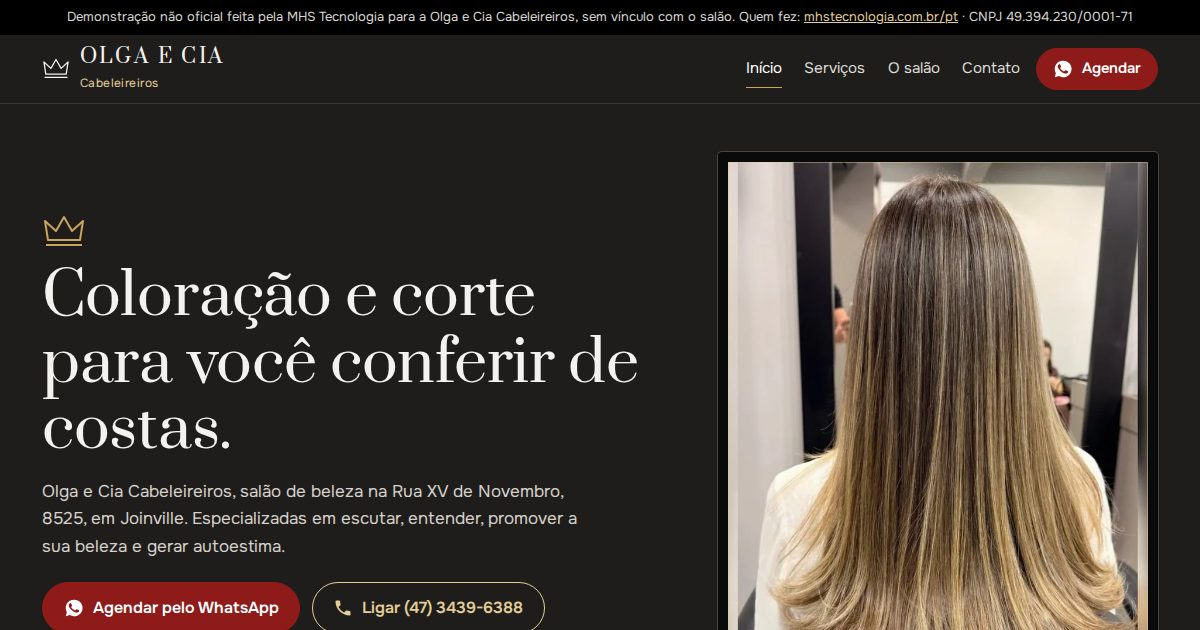
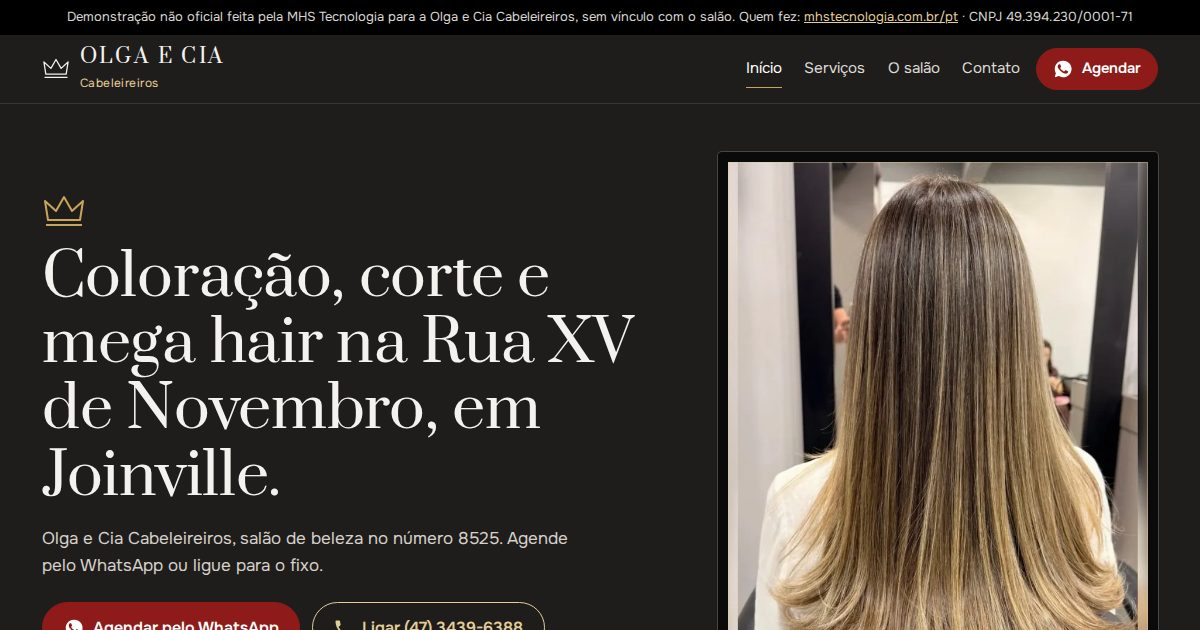
Previews: 182 ativos

Changed region(s): [[0.0308, 0.3016, 0.5242, 1.0]]

diff --git a/olga-e-cia-joinville-sc/servicos.html b/olga-e-cia-joinville-sc/servicos.html
@@ -182,19 +182,19 @@ dialog.caixa img{width:100%;max-height:82vh;object-fit:contain;background:#000}
     <nav class="nav" aria-label="Principal"><a href="index.html">Início</a><a href="servicos.html" aria-current="page">Serviços</a><a href="salao.html">O salão</a><a href="contato.html">Contato</a>
       <details class="menu"><summary>Menu</summary><div><a href="index.html">Início</a><a href="servicos.html" aria-current="page">Serviços</a><a href="salao.html">O salão</a><a href="contato.html">Contato</a><a href="https://wa.me/5547999785899?text=Ol%C3%A1%21%20Vi%20o%20site%20e%20quero%20agendar%20um%20hor%C3%A1rio.">Agendar pelo WhatsApp</a></div></details>
     </nav>
-    <a class="bt bt-topo" href="https://wa.me/5547999785899?text=Ol%C3%A1%21%20Vi%20o%20site%20e%20quero%20agendar%20um%20hor%C3%A1rio."><svg viewBox="0 0 24 24" aria-hidden="true"><path fill="currentColor" d="M12 2a10 10 0 0 0-8.6 15l-1.3 4.8 4.9-1.3A10 10 0 1 0 12 2Zm5.8 14.1c-.2.7-1.4 1.3-2 1.4-.5.1-1.2.1-1.9-.1a17 17 0 0 1-1.8-.7 13.6 13.6 0 0 1-5.2-4.6c-.4-.5-1.2-1.6-1.2-3s.7-2.2 1-2.5c.3-.3.6-.4.8-.4h.6c.2 0 .4 0 .6.5l.9 2.1c.1.2.1.4 0 .6l-.4.6-.4.5c-.1.2-.3.3-.1.6.2.3.8 1.4 1.8 2.2 1.2 1.1 2.3 1.4 2.6 1.6.3.1.5.1.7-.1l1-1.2c.2-.3.4-.2.7-.1l2 1c.3.1.5.2.6.3.1.2.1.7-.1 1.4Z"/></svg>Agendar</a>
+    <a class="bt bt-topo" href="https://wa.me/5547999785899?text=Ol%C3%A1%21%20Vi%20o%20site%20e%20quero%20agendar%20um%20hor%C3%A1rio." aria-label="Agendar pelo WhatsApp"><svg viewBox="0 0 24 24" aria-hidden="true"><path fill="currentColor" d="M12 2a10 10 0 0 0-8.6 15l-1.3 4.8 4.9-1.3A10 10 0 1 0 12 2Zm5.8 14.1c-.2.7-1.4 1.3-2 1.4-.5.1-1.2.1-1.9-.1a17 17 0 0 1-1.8-.7 13.6 13.6 0 0 1-5.2-4.6c-.4-.5-1.2-1.6-1.2-3s.7-2.2 1-2.5c.3-.3.6-.4.8-.4h.6c.2 0 .4 0 .6.5l.9 2.1c.1.2.1.4 0 .6l-.4.6-.4.5c-.1.2-.3.3-.1.6.2.3.8 1.4 1.8 2.2 1.2 1.1 2.3 1.4 2.6 1.6.3.1.5.1.7-.1l1-1.2c.2-.3.4-.2.7-.1l2 1c.3.1.5.2.6.3.1.2.1.7-.1 1.4Z"/></svg>Agendar</a>
   </div>
 </header>
 <main id="conteudo">
 <section class="cabeca" data-depois>
   <div class="envolve">
     <h1>Serviços</h1>
-    <p>Os nove serviços que a Olga e Cia lista no Instagram. Valores e horários, o salão passa pelo WhatsApp.</p>
+    <p>Os nove serviços da Olga e Cia. Valores e horários, o salão passa pelo WhatsApp.</p>
   </div>
 </section>
 <section class="secao" style="padding-top:1rem">
   <div class="envolve">
-    <article class="servico"><div><h2>Mega hair</h2></div><a class="bt" href="https://wa.me/5547999785899?text=Ol%C3%A1%21%20Vi%20o%20site%20e%20quero%20saber%20sobre%20mega%20hair."><svg viewBox="0 0 24 24" aria-hidden="true"><path fill="currentColor" d="M12 2a10 10 0 0 0-8.6 15l-1.3 4.8 4.9-1.3A10 10 0 1 0 12 2Zm5.8 14.1c-.2.7-1.4 1.3-2 1.4-.5.1-1.2.1-1.9-.1a17 17 0 0 1-1.8-.7 13.6 13.6 0 0 1-5.2-4.6c-.4-.5-1.2-1.6-1.2-3s.7-2.2 1-2.5c.3-.3.6-.4.8-.4h.6c.2 0 .4 0 .6.5l.9 2.1c.1.2.1.4 0 .6l-.4.6-.4.5c-.1.2-.3.3-.1.6.2.3.8 1.4 1.8 2.2 1.2 1.1 2.3 1.4 2.6 1.6.3.1.5.1.7-.1l1-1.2c.2-.3.4-.2.7-.1l2 1c.3.1.5.2.6.3.1.2.1.7-.1 1.4Z"/></svg>Perguntar sobre mega hair</a></article><article class="servico-foto"><div><h2>Coloração</h2><a class="bt" href="https://wa.me/5547999785899?text=Ol%C3%A1%21%20Vi%20o%20site%20e%20quero%20saber%20sobre%20colora%C3%A7%C3%A3o."><svg viewBox="0 0 24 24" aria-hidden="true"><path fill="currentColor" d="M12 2a10 10 0 0 0-8.6 15l-1.3 4.8 4.9-1.3A10 10 0 1 0 12 2Zm5.8 14.1c-.2.7-1.4 1.3-2 1.4-.5.1-1.2.1-1.9-.1a17 17 0 0 1-1.8-.7 13.6 13.6 0 0 1-5.2-4.6c-.4-.5-1.2-1.6-1.2-3s.7-2.2 1-2.5c.3-.3.6-.4.8-.4h.6c.2 0 .4 0 .6.5l.9 2.1c.1.2.1.4 0 .6l-.4.6-.4.5c-.1.2-.3.3-.1.6.2.3.8 1.4 1.8 2.2 1.2 1.1 2.3 1.4 2.6 1.6.3.1.5.1.7-.1l1-1.2c.2-.3.4-.2.7-.1l2 1c.3.1.5.2.6.3.1.2.1.7-.1 1.4Z"/></svg>Perguntar sobre coloração</a></div><div class="fotos"><img src="img/ondas-10-800.webp" srcset="img/ondas-10-480.webp 480w, img/ondas-10-800.webp 800w" sizes="(max-width: 759px) 46vw, 280px" width="800" height="905" alt="Cabelo comprido com mechas loiras e ondas, visto de costas" loading="lazy" decoding="async"><img src="img/loiro-04-800.webp" srcset="img/loiro-04-480.webp 480w, img/loiro-04-800.webp 800w, img/loiro-04-1200.webp 1200w" sizes="(max-width: 759px) 46vw, 280px" width="800" height="905" alt="Cabelo loiro na altura dos ombros, com pontas onduladas, visto de costas" loading="lazy" decoding="async"></div></article><article class="servico-foto"><div><h2>Corte</h2><a class="bt" href="https://wa.me/5547999785899?text=Ol%C3%A1%21%20Vi%20o%20site%20e%20quero%20saber%20sobre%20corte."><svg viewBox="0 0 24 24" aria-hidden="true"><path fill="currentColor" d="M12 2a10 10 0 0 0-8.6 15l-1.3 4.8 4.9-1.3A10 10 0 1 0 12 2Zm5.8 14.1c-.2.7-1.4 1.3-2 1.4-.5.1-1.2.1-1.9-.1a17 17 0 0 1-1.8-.7 13.6 13.6 0 0 1-5.2-4.6c-.4-.5-1.2-1.6-1.2-3s.7-2.2 1-2.5c.3-.3.6-.4.8-.4h.6c.2 0 .4 0 .6.5l.9 2.1c.1.2.1.4 0 .6l-.4.6-.4.5c-.1.2-.3.3-.1.6.2.3.8 1.4 1.8 2.2 1.2 1.1 2.3 1.4 2.6 1.6.3.1.5.1.7-.1l1-1.2c.2-.3.4-.2.7-.1l2 1c.3.1.5.2.6.3.1.2.1.7-.1 1.4Z"/></svg>Perguntar sobre corte</a></div><div class="fotos"><img src="img/chanel-06-800.webp" srcset="img/chanel-06-480.webp 480w, img/chanel-06-800.webp 800w, img/chanel-06-1200.webp 1200w" sizes="(max-width: 759px) 46vw, 280px" width="800" height="905" alt="Corte chanel castanho com reflexos, visto de costas" loading="lazy" decoding="async"><img src="img/curto-03-800.webp" srcset="img/curto-03-480.webp 480w, img/curto-03-800.webp 800w" sizes="(max-width: 759px) 46vw, 280px" width="800" height="905" alt="Corte curto e escuro, visto de lado" loading="lazy" decoding="async"></div></article><article class="servico-foto"><div><h2>Cílios</h2><a class="bt" href="https://wa.me/5547999785899?text=Ol%C3%A1%21%20Vi%20o%20site%20e%20quero%20saber%20sobre%20c%C3%ADlios."><svg viewBox="0 0 24 24" aria-hidden="true"><path fill="currentColor" d="M12 2a10 10 0 0 0-8.6 15l-1.3 4.8 4.9-1.3A10 10 0 1 0 12 2Zm5.8 14.1c-.2.7-1.4 1.3-2 1.4-.5.1-1.2.1-1.9-.1a17 17 0 0 1-1.8-.7 13.6 13.6 0 0 1-5.2-4.6c-.4-.5-1.2-1.6-1.2-3s.7-2.2 1-2.5c.3-.3.6-.4.8-.4h.6c.2 0 .4 0 .6.5l.9 2.1c.1.2.1.4 0 .6l-.4.6-.4.5c-.1.2-.3.3-.1.6.2.3.8 1.4 1.8 2.2 1.2 1.1 2.3 1.4 2.6 1.6.3.1.5.1.7-.1l1-1.2c.2-.3.4-.2.7-.1l2 1c.3.1.5.2.6.3.1.2.1.7-.1 1.4Z"/></svg>Perguntar sobre cílios</a></div><div class="fotos uma"><img src="img/cilios-16-800.webp" srcset="img/cilios-16-480.webp 480w, img/cilios-16-800.webp 800w, img/cilios-16-1200.webp 1200w" sizes="(max-width: 759px) 46vw, 280px" width="800" height="905" alt="Olho com extensão de cílios, bem de perto" loading="lazy" decoding="async"></div></article><article class="servico"><div><h2>Bronze a jato</h2></div><a class="bt" href="https://wa.me/5547999785899?text=Ol%C3%A1%21%20Vi%20o%20site%20e%20quero%20saber%20sobre%20bronze%20a%20jato."><svg viewBox="0 0 24 24" aria-hidden="true"><path fill="currentColor" d="M12 2a10 10 0 0 0-8.6 15l-1.3 4.8 4.9-1.3A10 10 0 1 0 12 2Zm5.8 14.1c-.2.7-1.4 1.3-2 1.4-.5.1-1.2.1-1.9-.1a17 17 0 0 1-1.8-.7 13.6 13.6 0 0 1-5.2-4.6c-.4-.5-1.2-1.6-1.2-3s.7-2.2 1-2.5c.3-.3.6-.4.8-.4h.6c.2 0 .4 0 .6.5l.9 2.1c.1.2.1.4 0 .6l-.4.6-.4.5c-.1.2-.3.3-.1.6.2.3.8 1.4 1.8 2.2 1.2 1.1 2.3 1.4 2.6 1.6.3.1.5.1.7-.1l1-1.2c.2-.3.4-.2.7-.1l2 1c.3.1.5.2.6.3.1.2.1.7-.1 1.4Z"/></svg>Perguntar sobre bronze a jato</a></article><article class="servico"><div><h2>Microblading</h2></div><a class="bt" href="https://wa.me/5547999785899?text=Ol%C3%A1%21%20Vi%20o%20site%20e%20quero%20saber%20sobre%20microblading."><svg viewBox="0 0 24 24" aria-hidden="true"><path fill="currentColor" d="M12 2a10 10 0 0 0-8.6 15l-1.3 4.8 4.9-1.3A10 10 0 1 0 12 2Zm5.8 14.1c-.2.7-1.4 1.3-2 1.4-.5.1-1.2.1-1.9-.1a17 17 0 0 1-1.8-.7 13.6 13.6 0 0 1-5.2-4.6c-.4-.5-1.2-1.6-1.2-3s.7-2.2 1-2.5c.3-.3.6-.4.8-.4h.6c.2 0 .4 0 .6.5l.9 2.1c.1.2.1.4 0 .6l-.4.6-.4.5c-.1.2-.3.3-.1.6.2.3.8 1.4 1.8 2.2 1.2 1.1 2.3 1.4 2.6 1.6.3.1.5.1.7-.1l1-1.2c.2-.3.4-.2.7-.1l2 1c.3.1.5.2.6.3.1.2.1.7-.1 1.4Z"/></svg>Perguntar sobre microblading</a></article><article class="servico-foto"><div><h2>Makes</h2><a class="bt" href="https://wa.me/5547999785899?text=Ol%C3%A1%21%20Vi%20o%20site%20e%20quero%20saber%20sobre%20maquiagem."><svg viewBox="0 0 24 24" aria-hidden="true"><path fill="currentColor" d="M12 2a10 10 0 0 0-8.6 15l-1.3 4.8 4.9-1.3A10 10 0 1 0 12 2Zm5.8 14.1c-.2.7-1.4 1.3-2 1.4-.5.1-1.2.1-1.9-.1a17 17 0 0 1-1.8-.7 13.6 13.6 0 0 1-5.2-4.6c-.4-.5-1.2-1.6-1.2-3s.7-2.2 1-2.5c.3-.3.6-.4.8-.4h.6c.2 0 .4 0 .6.5l.9 2.1c.1.2.1.4 0 .6l-.4.6-.4.5c-.1.2-.3.3-.1.6.2.3.8 1.4 1.8 2.2 1.2 1.1 2.3 1.4 2.6 1.6.3.1.5.1.7-.1l1-1.2c.2-.3.4-.2.7-.1l2 1c.3.1.5.2.6.3.1.2.1.7-.1 1.4Z"/></svg>Perguntar sobre makes</a></div><div class="fotos uma"><img src="img/make-08-800.webp" srcset="img/make-08-480.webp 480w, img/make-08-800.webp 800w" sizes="(max-width: 759px) 46vw, 280px" width="800" height="905" alt="Cliente com maquiagem pronta, sorrindo" loading="lazy" decoding="async"></div></article><article class="servico"><div><h2>Penteados</h2></div><a class="bt" href="https://wa.me/5547999785899?text=Ol%C3%A1%21%20Vi%20o%20site%20e%20quero%20saber%20sobre%20penteados."><svg viewBox="0 0 24 24" aria-hidden="true"><path fill="currentColor" d="M12 2a10 10 0 0 0-8.6 15l-1.3 4.8 4.9-1.3A10 10 0 1 0 12 2Zm5.8 14.1c-.2.7-1.4 1.3-2 1.4-.5.1-1.2.1-1.9-.1a17 17 0 0 1-1.8-.7 13.6 13.6 0 0 1-5.2-4.6c-.4-.5-1.2-1.6-1.2-3s.7-2.2 1-2.5c.3-.3.6-.4.8-.4h.6c.2 0 .4 0 .6.5l.9 2.1c.1.2.1.4 0 .6l-.4.6-.4.5c-.1.2-.3.3-.1.6.2.3.8 1.4 1.8 2.2 1.2 1.1 2.3 1.4 2.6 1.6.3.1.5.1.7-.1l1-1.2c.2-.3.4-.2.7-.1l2 1c.3.1.5.2.6.3.1.2.1.7-.1 1.4Z"/></svg>Perguntar sobre penteados</a></article><article class="servico"><div><h2>Progressivas</h2></div><a class="bt" href="https://wa.me/5547999785899?text=Ol%C3%A1%21%20Vi%20o%20site%20e%20quero%20saber%20sobre%20progressivas."><svg viewBox="0 0 24 24" aria-hidden="true"><path fill="currentColor" d="M12 2a10 10 0 0 0-8.6 15l-1.3 4.8 4.9-1.3A10 10 0 1 0 12 2Zm5.8 14.1c-.2.7-1.4 1.3-2 1.4-.5.1-1.2.1-1.9-.1a17 17 0 0 1-1.8-.7 13.6 13.6 0 0 1-5.2-4.6c-.4-.5-1.2-1.6-1.2-3s.7-2.2 1-2.5c.3-.3.6-.4.8-.4h.6c.2 0 .4 0 .6.5l.9 2.1c.1.2.1.4 0 .6l-.4.6-.4.5c-.1.2-.3.3-.1.6.2.3.8 1.4 1.8 2.2 1.2 1.1 2.3 1.4 2.6 1.6.3.1.5.1.7-.1l1-1.2c.2-.3.4-.2.7-.1l2 1c.3.1.5.2.6.3.1.2.1.7-.1 1.4Z"/></svg>Perguntar sobre progressivas</a></article>
+    <article class="servico"><div><h2>Mega hair</h2></div><a class="bt" href="https://wa.me/5547999785899?text=Ol%C3%A1%21%20Vi%20o%20site%20e%20quero%20saber%20sobre%20mega%20hair."><svg viewBox="0 0 24 24" aria-hidden="true"><path fill="currentColor" d="M12 2a10 10 0 0 0-8.6 15l-1.3 4.8 4.9-1.3A10 10 0 1 0 12 2Zm5.8 14.1c-.2.7-1.4 1.3-2 1.4-.5.1-1.2.1-1.9-.1a17 17 0 0 1-1.8-.7 13.6 13.6 0 0 1-5.2-4.6c-.4-.5-1.2-1.6-1.2-3s.7-2.2 1-2.5c.3-.3.6-.4.8-.4h.6c.2 0 .4 0 .6.5l.9 2.1c.1.2.1.4 0 .6l-.4.6-.4.5c-.1.2-.3.3-.1.6.2.3.8 1.4 1.8 2.2 1.2 1.1 2.3 1.4 2.6 1.6.3.1.5.1.7-.1l1-1.2c.2-.3.4-.2.7-.1l2 1c.3.1.5.2.6.3.1.2.1.7-.1 1.4Z"/></svg>Perguntar sobre mega hair</a></article><article class="servico-foto"><div><h2>Coloração</h2><a class="bt" href="https://wa.me/5547999785899?text=Ol%C3%A1%21%20Vi%20o%20site%20e%20quero%20saber%20sobre%20colora%C3%A7%C3%A3o."><svg viewBox="0 0 24 24" aria-hidden="true"><path fill="currentColor" d="M12 2a10 10 0 0 0-8.6 15l-1.3 4.8 4.9-1.3A10 10 0 1 0 12 2Zm5.8 14.1c-.2.7-1.4 1.3-2 1.4-.5.1-1.2.1-1.9-.1a17 17 0 0 1-1.8-.7 13.6 13.6 0 0 1-5.2-4.6c-.4-.5-1.2-1.6-1.2-3s.7-2.2 1-2.5c.3-.3.6-.4.8-.4h.6c.2 0 .4 0 .6.5l.9 2.1c.1.2.1.4 0 .6l-.4.6-.4.5c-.1.2-.3.3-.1.6.2.3.8 1.4 1.8 2.2 1.2 1.1 2.3 1.4 2.6 1.6.3.1.5.1.7-.1l1-1.2c.2-.3.4-.2.7-.1l2 1c.3.1.5.2.6.3.1.2.1.7-.1 1.4Z"/></svg>Perguntar sobre coloração</a></div><div class="fotos uma"><img src="img/mechas-05-800.webp" srcset="img/mechas-05-480.webp 480w, img/mechas-05-800.webp 800w, img/mechas-05-1200.webp 1200w" sizes="(max-width: 759px) 46vw, 280px" width="800" height="905" alt="Cabelo castanho com mechas claras, liso, na altura dos ombros, visto de costas" loading="lazy" decoding="async"></div></article><article class="servico-foto"><div><h2>Corte</h2><a class="bt" href="https://wa.me/5547999785899?text=Ol%C3%A1%21%20Vi%20o%20site%20e%20quero%20saber%20sobre%20corte."><svg viewBox="0 0 24 24" aria-hidden="true"><path fill="currentColor" d="M12 2a10 10 0 0 0-8.6 15l-1.3 4.8 4.9-1.3A10 10 0 1 0 12 2Zm5.8 14.1c-.2.7-1.4 1.3-2 1.4-.5.1-1.2.1-1.9-.1a17 17 0 0 1-1.8-.7 13.6 13.6 0 0 1-5.2-4.6c-.4-.5-1.2-1.6-1.2-3s.7-2.2 1-2.5c.3-.3.6-.4.8-.4h.6c.2 0 .4 0 .6.5l.9 2.1c.1.2.1.4 0 .6l-.4.6-.4.5c-.1.2-.3.3-.1.6.2.3.8 1.4 1.8 2.2 1.2 1.1 2.3 1.4 2.6 1.6.3.1.5.1.7-.1l1-1.2c.2-.3.4-.2.7-.1l2 1c.3.1.5.2.6.3.1.2.1.7-.1 1.4Z"/></svg>Perguntar sobre corte</a></div><div class="fotos uma"><img src="img/chanel-06-800.webp" srcset="img/chanel-06-480.webp 480w, img/chanel-06-800.webp 800w, img/chanel-06-1200.webp 1200w" sizes="(max-width: 759px) 46vw, 280px" width="800" height="905" alt="Corte chanel castanho com reflexos, visto de costas" loading="lazy" decoding="async"></div></article><article class="servico-foto"><div><h2>Cílios</h2><a class="bt" href="https://wa.me/5547999785899?text=Ol%C3%A1%21%20Vi%20o%20site%20e%20quero%20saber%20sobre%20c%C3%ADlios."><svg viewBox="0 0 24 24" aria-hidden="true"><path fill="currentColor" d="M12 2a10 10 0 0 0-8.6 15l-1.3 4.8 4.9-1.3A10 10 0 1 0 12 2Zm5.8 14.1c-.2.7-1.4 1.3-2 1.4-.5.1-1.2.1-1.9-.1a17 17 0 0 1-1.8-.7 13.6 13.6 0 0 1-5.2-4.6c-.4-.5-1.2-1.6-1.2-3s.7-2.2 1-2.5c.3-.3.6-.4.8-.4h.6c.2 0 .4 0 .6.5l.9 2.1c.1.2.1.4 0 .6l-.4.6-.4.5c-.1.2-.3.3-.1.6.2.3.8 1.4 1.8 2.2 1.2 1.1 2.3 1.4 2.6 1.6.3.1.5.1.7-.1l1-1.2c.2-.3.4-.2.7-.1l2 1c.3.1.5.2.6.3.1.2.1.7-.1 1.4Z"/></svg>Perguntar sobre cílios</a></div><div class="fotos uma"><img src="img/cilios-16-800.webp" srcset="img/cilios-16-480.webp 480w, img/cilios-16-800.webp 800w, img/cilios-16-1200.webp 1200w" sizes="(max-width: 759px) 46vw, 280px" width="800" height="905" alt="Olho com extensão de cílios, bem de perto" loading="lazy" decoding="async"></div></article><article class="servico"><div><h2>Bronze a jato</h2></div><a class="bt" href="https://wa.me/5547999785899?text=Ol%C3%A1%21%20Vi%20o%20site%20e%20quero%20saber%20sobre%20bronze%20a%20jato."><svg viewBox="0 0 24 24" aria-hidden="true"><path fill="currentColor" d="M12 2a10 10 0 0 0-8.6 15l-1.3 4.8 4.9-1.3A10 10 0 1 0 12 2Zm5.8 14.1c-.2.7-1.4 1.3-2 1.4-.5.1-1.2.1-1.9-.1a17 17 0 0 1-1.8-.7 13.6 13.6 0 0 1-5.2-4.6c-.4-.5-1.2-1.6-1.2-3s.7-2.2 1-2.5c.3-.3.6-.4.8-.4h.6c.2 0 .4 0 .6.5l.9 2.1c.1.2.1.4 0 .6l-.4.6-.4.5c-.1.2-.3.3-.1.6.2.3.8 1.4 1.8 2.2 1.2 1.1 2.3 1.4 2.6 1.6.3.1.5.1.7-.1l1-1.2c.2-.3.4-.2.7-.1l2 1c.3.1.5.2.6.3.1.2.1.7-.1 1.4Z"/></svg>Perguntar sobre bronze a jato</a></article><article class="servico"><div><h2>Microblading</h2></div><a class="bt" href="https://wa.me/5547999785899?text=Ol%C3%A1%21%20Vi%20o%20site%20e%20quero%20saber%20sobre%20microblading."><svg viewBox="0 0 24 24" aria-hidden="true"><path fill="currentColor" d="M12 2a10 10 0 0 0-8.6 15l-1.3 4.8 4.9-1.3A10 10 0 1 0 12 2Zm5.8 14.1c-.2.7-1.4 1.3-2 1.4-.5.1-1.2.1-1.9-.1a17 17 0 0 1-1.8-.7 13.6 13.6 0 0 1-5.2-4.6c-.4-.5-1.2-1.6-1.2-3s.7-2.2 1-2.5c.3-.3.6-.4.8-.4h.6c.2 0 .4 0 .6.5l.9 2.1c.1.2.1.4 0 .6l-.4.6-.4.5c-.1.2-.3.3-.1.6.2.3.8 1.4 1.8 2.2 1.2 1.1 2.3 1.4 2.6 1.6.3.1.5.1.7-.1l1-1.2c.2-.3.4-.2.7-.1l2 1c.3.1.5.2.6.3.1.2.1.7-.1 1.4Z"/></svg>Perguntar sobre microblading</a></article><article class="servico-foto"><div><h2>Makes</h2><a class="bt" href="https://wa.me/5547999785899?text=Ol%C3%A1%21%20Vi%20o%20site%20e%20quero%20saber%20sobre%20maquiagem."><svg viewBox="0 0 24 24" aria-hidden="true"><path fill="currentColor" d="M12 2a10 10 0 0 0-8.6 15l-1.3 4.8 4.9-1.3A10 10 0 1 0 12 2Zm5.8 14.1c-.2.7-1.4 1.3-2 1.4-.5.1-1.2.1-1.9-.1a17 17 0 0 1-1.8-.7 13.6 13.6 0 0 1-5.2-4.6c-.4-.5-1.2-1.6-1.2-3s.7-2.2 1-2.5c.3-.3.6-.4.8-.4h.6c.2 0 .4 0 .6.5l.9 2.1c.1.2.1.4 0 .6l-.4.6-.4.5c-.1.2-.3.3-.1.6.2.3.8 1.4 1.8 2.2 1.2 1.1 2.3 1.4 2.6 1.6.3.1.5.1.7-.1l1-1.2c.2-.3.4-.2.7-.1l2 1c.3.1.5.2.6.3.1.2.1.7-.1 1.4Z"/></svg>Perguntar sobre makes</a></div><div class="fotos uma"><img src="img/make-08-800.webp" srcset="img/make-08-480.webp 480w, img/make-08-800.webp 800w" sizes="(max-width: 759px) 46vw, 280px" width="800" height="905" alt="Cliente com maquiagem pronta, sorrindo" loading="lazy" decoding="async"></div></article><article class="servico"><div><h2>Penteados</h2></div><a class="bt" href="https://wa.me/5547999785899?text=Ol%C3%A1%21%20Vi%20o%20site%20e%20quero%20saber%20sobre%20penteados."><svg viewBox="0 0 24 24" aria-hidden="true"><path fill="currentColor" d="M12 2a10 10 0 0 0-8.6 15l-1.3 4.8 4.9-1.3A10 10 0 1 0 12 2Zm5.8 14.1c-.2.7-1.4 1.3-2 1.4-.5.1-1.2.1-1.9-.1a17 17 0 0 1-1.8-.7 13.6 13.6 0 0 1-5.2-4.6c-.4-.5-1.2-1.6-1.2-3s.7-2.2 1-2.5c.3-.3.6-.4.8-.4h.6c.2 0 .4 0 .6.5l.9 2.1c.1.2.1.4 0 .6l-.4.6-.4.5c-.1.2-.3.3-.1.6.2.3.8 1.4 1.8 2.2 1.2 1.1 2.3 1.4 2.6 1.6.3.1.5.1.7-.1l1-1.2c.2-.3.4-.2.7-.1l2 1c.3.1.5.2.6.3.1.2.1.7-.1 1.4Z"/></svg>Perguntar sobre penteados</a></article><article class="servico"><div><h2>Progressivas</h2></div><a class="bt" href="https://wa.me/5547999785899?text=Ol%C3%A1%21%20Vi%20o%20site%20e%20quero%20saber%20sobre%20progressivas."><svg viewBox="0 0 24 24" aria-hidden="true"><path fill="currentColor" d="M12 2a10 10 0 0 0-8.6 15l-1.3 4.8 4.9-1.3A10 10 0 1 0 12 2Zm5.8 14.1c-.2.7-1.4 1.3-2 1.4-.5.1-1.2.1-1.9-.1a17 17 0 0 1-1.8-.7 13.6 13.6 0 0 1-5.2-4.6c-.4-.5-1.2-1.6-1.2-3s.7-2.2 1-2.5c.3-.3.6-.4.8-.4h.6c.2 0 .4 0 .6.5l.9 2.1c.1.2.1.4 0 .6l-.4.6-.4.5c-.1.2-.3.3-.1.6.2.3.8 1.4 1.8 2.2 1.2 1.1 2.3 1.4 2.6 1.6.3.1.5.1.7-.1l1-1.2c.2-.3.4-.2.7-.1l2 1c.3.1.5.2.6.3.1.2.1.7-.1 1.4Z"/></svg>Perguntar sobre progressivas</a></article>
   </div>
 </section>
 </main>
@@ -203,7 +203,7 @@ dialog.caixa img{width:100%;max-height:82vh;object-fit:contain;background:#000}
     <div><b>OLGA E CIA</b><p>Cabeleireiros</p><p>Rua XV de Novembro, 8525<br>Joinville/SC</p></div>
     <div><p>WhatsApp: <a href="https://wa.me/5547999785899?text=Ol%C3%A1%21%20Vi%20o%20site%20e%20quero%20agendar%20um%20hor%C3%A1rio.">(47) 99978-5899</a></p><p>Telefone fixo: <a href="tel:+554734396388">(47) 3439-6388</a></p><p>Instagram: @olgaecia</p></div>
     <div><p><a href="index.html">Início</a><br><a href="servicos.html">Serviços</a><br><a href="salao.html">O salão</a><br><a href="contato.html">Contato</a><br></p></div>
-    <div class="legal"><p>Demonstração não oficial feita pela MHS Tecnologia para a Olga e Cia Cabeleireiros. Sem vínculo com o salão. Fotos e textos do Instagram do salão.</p><p>Removido a pedido: <a href="mailto:contato@mhstecnologia.com.br">contato@mhstecnologia.com.br</a></p></div>
+    <div class="legal"><p>Demonstração não oficial feita pela MHS Tecnologia para a Olga e Cia Cabeleireiros. Sem vínculo com o salão. Fotos e textos do próprio salão.</p><p>Removido a pedido: <a href="mailto:contato@mhstecnologia.com.br">contato@mhstecnologia.com.br</a></p></div>
   </div>
 </footer>
 <div class="fixo" data-fixo><a class="bt" href="https://wa.me/5547999785899?text=Ol%C3%A1%21%20Vi%20o%20site%20e%20quero%20agendar%20um%20hor%C3%A1rio."><svg viewBox="0 0 24 24" aria-hidden="true"><path fill="currentColor" d="M12 2a10 10 0 0 0-8.6 15l-1.3 4.8 4.9-1.3A10 10 0 1 0 12 2Zm5.8 14.1c-.2.7-1.4 1.3-2 1.4-.5.1-1.2.1-1.9-.1a17 17 0 0 1-1.8-.7 13.6 13.6 0 0 1-5.2-4.6c-.4-.5-1.2-1.6-1.2-3s.7-2.2 1-2.5c.3-.3.6-.4.8-.4h.6c.2 0 .4 0 .6.5l.9 2.1c.1.2.1.4 0 .6l-.4.6-.4.5c-.1.2-.3.3-.1.6.2.3.8 1.4 1.8 2.2 1.2 1.1 2.3 1.4 2.6 1.6.3.1.5.1.7-.1l1-1.2c.2-.3.4-.2.7-.1l2 1c.3.1.5.2.6.3.1.2.1.7-.1 1.4Z"/></svg>Agendar pelo WhatsApp</a></div>

diff --git a/olga-e-cia-joinville-sc/index.html b/olga-e-cia-joinville-sc/index.html
@@ -191,7 +191,7 @@ dialog.caixa img{width:100%;max-height:82vh;object-fit:contain;background:#000}
     <nav class="nav" aria-label="Principal"><a href="index.html" aria-current="page">Início</a><a href="servicos.html">Serviços</a><a href="salao.html">O salão</a><a href="contato.html">Contato</a>
       <details class="menu"><summary>Menu</summary><div><a href="index.html" aria-current="page">Início</a><a href="servicos.html">Serviços</a><a href="salao.html">O salão</a><a href="contato.html">Contato</a><a href="https://wa.me/5547999785899?text=Ol%C3%A1%21%20Vi%20o%20site%20e%20quero%20agendar%20um%20hor%C3%A1rio.">Agendar pelo WhatsApp</a></div></details>
     </nav>
-    <a class="bt bt-topo" href="https://wa.me/5547999785899?text=Ol%C3%A1%21%20Vi%20o%20site%20e%20quero%20agendar%20um%20hor%C3%A1rio."><svg viewBox="0 0 24 24" aria-hidden="true"><path fill="currentColor" d="M12 2a10 10 0 0 0-8.6 15l-1.3 4.8 4.9-1.3A10 10 0 1 0 12 2Zm5.8 14.1c-.2.7-1.4 1.3-2 1.4-.5.1-1.2.1-1.9-.1a17 17 0 0 1-1.8-.7 13.6 13.6 0 0 1-5.2-4.6c-.4-.5-1.2-1.6-1.2-3s.7-2.2 1-2.5c.3-.3.6-.4.8-.4h.6c.2 0 .4 0 .6.5l.9 2.1c.1.2.1.4 0 .6l-.4.6-.4.5c-.1.2-.3.3-.1.6.2.3.8 1.4 1.8 2.2 1.2 1.1 2.3 1.4 2.6 1.6.3.1.5.1.7-.1l1-1.2c.2-.3.4-.2.7-.1l2 1c.3.1.5.2.6.3.1.2.1.7-.1 1.4Z"/></svg>Agendar</a>
+    <a class="bt bt-topo" href="https://wa.me/5547999785899?text=Ol%C3%A1%21%20Vi%20o%20site%20e%20quero%20agendar%20um%20hor%C3%A1rio." aria-label="Agendar pelo WhatsApp"><svg viewBox="0 0 24 24" aria-hidden="true"><path fill="currentColor" d="M12 2a10 10 0 0 0-8.6 15l-1.3 4.8 4.9-1.3A10 10 0 1 0 12 2Zm5.8 14.1c-.2.7-1.4 1.3-2 1.4-.5.1-1.2.1-1.9-.1a17 17 0 0 1-1.8-.7 13.6 13.6 0 0 1-5.2-4.6c-.4-.5-1.2-1.6-1.2-3s.7-2.2 1-2.5c.3-.3.6-.4.8-.4h.6c.2 0 .4 0 .6.5l.9 2.1c.1.2.1.4 0 .6l-.4.6-.4.5c-.1.2-.3.3-.1.6.2.3.8 1.4 1.8 2.2 1.2 1.1 2.3 1.4 2.6 1.6.3.1.5.1.7-.1l1-1.2c.2-.3.4-.2.7-.1l2 1c.3.1.5.2.6.3.1.2.1.7-.1 1.4Z"/></svg>Agendar</a>
   </div>
 </header>
 <main id="conteudo">
@@ -199,8 +199,8 @@ dialog.caixa img{width:100%;max-height:82vh;object-fit:contain;background:#000}
   <div class="envolve">
     <div>
       <div class="coroa"><svg viewBox="0 0 44 34" fill="none" stroke="currentColor" stroke-width="2" stroke-linejoin="round" aria-hidden="true"><path d="M4 30h36M6 25 3 6l11 10 8-14 8 14 11-10-3 19H6Z"/></svg></div>
-      <h1>Coloração e corte para você conferir de costas.</h1>
-      <p>Olga e Cia Cabeleireiros, salão de beleza na Rua XV de Novembro, 8525, em Joinville. Especializadas em escutar, entender, promover a sua beleza e gerar autoestima.</p>
+      <h1>Coloração, corte e mega hair na Rua XV de Novembro, em Joinville.</h1>
+      <p>Olga e Cia Cabeleireiros, salão de beleza no número 8525. Agende pelo WhatsApp ou ligue para o fixo.</p>
       <div class="acoes"><a class="bt" href="https://wa.me/5547999785899?text=Ol%C3%A1%21%20Vi%20o%20site%20e%20quero%20agendar%20uma%20colora%C3%A7%C3%A3o."><svg viewBox="0 0 24 24" aria-hidden="true"><path fill="currentColor" d="M12 2a10 10 0 0 0-8.6 15l-1.3 4.8 4.9-1.3A10 10 0 1 0 12 2Zm5.8 14.1c-.2.7-1.4 1.3-2 1.4-.5.1-1.2.1-1.9-.1a17 17 0 0 1-1.8-.7 13.6 13.6 0 0 1-5.2-4.6c-.4-.5-1.2-1.6-1.2-3s.7-2.2 1-2.5c.3-.3.6-.4.8-.4h.6c.2 0 .4 0 .6.5l.9 2.1c.1.2.1.4 0 .6l-.4.6-.4.5c-.1.2-.3.3-.1.6.2.3.8 1.4 1.8 2.2 1.2 1.1 2.3 1.4 2.6 1.6.3.1.5.1.7-.1l1-1.2c.2-.3.4-.2.7-.1l2 1c.3.1.5.2.6.3.1.2.1.7-.1 1.4Z"/></svg>Agendar pelo WhatsApp</a><a class="bt bt-linha" href="tel:+554734396388"><svg viewBox="0 0 24 24" aria-hidden="true"><path fill="currentColor" d="M6.6 10.8a15.1 15.1 0 0 0 6.6 6.6l2.2-2.2c.3-.3.7-.4 1-.2 1.1.4 2.3.6 3.6.6.6 0 1 .4 1 1V20c0 .6-.4 1-1 1A17 17 0 0 1 3 4c0-.6.4-1 1-1h3.5c.6 0 1 .4 1 1 0 1.3.2 2.5.6 3.6.1.3 0 .7-.2 1l-2.3 2.2Z"/></svg>Ligar (47) 3439-6388</a></div>
     </div>
     <div class="espelho"><picture><source media="(max-width: 899px)" srcset="img/longo-12-480.webp 480w, img/longo-12-800.webp 800w" sizes="100vw"><img src="img/longo-12-800.webp" srcset="img/longo-12-800.webp 800w, img/longo-12-1200.webp 1200w" sizes="440px" width="800" height="898" alt="Cabelo longo castanho iluminado até as pontas claras, visto de costas na cadeira do salão" fetchpriority="high" decoding="async"></picture></div>
@@ -210,7 +210,7 @@ dialog.caixa img{width:100%;max-height:82vh;object-fit:contain;background:#000}
 <section class="secao" aria-labelledby="t-costas">
   <div class="envolve">
     <h2 id="t-costas">O resultado visto de costas</h2>
-    <p class="intro">É assim que o salão mostra o trabalho no Instagram: a cliente na cadeira, o cabelo pronto, de costas para a câmera.</p>
+    <p class="intro">Resultados de clientes do salão.</p>
     <div class="parede"><button type="button" data-grande="img/loiro-04-1200.webp" aria-label="Ampliar: Cabelo loiro na altura dos ombros, com pontas onduladas, visto de costas na cadeira do salão"><img src="img/loiro-04-800.webp" srcset="img/loiro-04-480.webp 480w, img/loiro-04-800.webp 800w, img/loiro-04-1200.webp 1200w" sizes="(max-width: 759px) 46vw, 360px" width="800" height="905" alt="Cabelo loiro na altura dos ombros, com pontas onduladas, visto de costas na cadeira do salão" loading="lazy" decoding="async"></button><button type="button" data-grande="img/mechas-05-1200.webp" aria-label="Ampliar: Cabelo castanho com mechas claras, liso, na altura dos ombros, visto de costas"><img src="img/mechas-05-800.webp" srcset="img/mechas-05-480.webp 480w, img/mechas-05-800.webp 800w, img/mechas-05-1200.webp 1200w" sizes="(max-width: 759px) 46vw, 360px" width="800" height="905" alt="Cabelo castanho com mechas claras, liso, na altura dos ombros, visto de costas" loading="lazy" decoding="async"></button><button type="button" data-grande="img/chanel-06-1200.webp" aria-label="Ampliar: Corte chanel castanho com reflexos, visto de costas no salão"><img src="img/chanel-06-800.webp" srcset="img/chanel-06-480.webp 480w, img/chanel-06-800.webp 800w, img/chanel-06-1200.webp 1200w" sizes="(max-width: 759px) 46vw, 360px" width="800" height="905" alt="Corte chanel castanho com reflexos, visto de costas no salão" loading="lazy" decoding="async"></button><button type="button" data-grande="img/ondas-10-800.webp" aria-label="Ampliar: Cabelo comprido com mechas loiras e ondas, visto de costas"><img src="img/ondas-10-800.webp" srcset="img/ondas-10-480.webp 480w, img/ondas-10-800.webp 800w" sizes="(max-width: 759px) 46vw, 360px" width="800" height="905" alt="Cabelo comprido com mechas loiras e ondas, visto de costas" loading="lazy" decoding="async"></button><button type="button" data-grande="img/grisalho-18-1200.webp" aria-label="Ampliar: Cabelo loiro acinzentado na altura dos ombros, visto de lado"><img src="img/grisalho-18-800.webp" srcset="img/grisalho-18-480.webp 480w, img/grisalho-18-800.webp 800w, img/grisalho-18-1200.webp 1200w" sizes="(max-width: 759px) 46vw, 360px" width="800" height="905" alt="Cabelo loiro acinzentado na altura dos ombros, visto de lado" loading="lazy" decoding="async"></button><button type="button" data-grande="img/cachos-20-1200.webp" aria-label="Ampliar: Cabelo comprido com mechas e cachos largos, visto de costas"><img src="img/cachos-20-800.webp" srcset="img/cachos-20-480.webp 480w, img/cachos-20-800.webp 800w, img/cachos-20-1200.webp 1200w" sizes="(max-width: 759px) 46vw, 360px" width="800" height="905" alt="Cabelo comprido com mechas e cachos largos, visto de costas" loading="lazy" decoding="async"></button></div>
     <p class="ampliar">Toque numa foto para ampliar.</p>
   </div>
@@ -219,7 +219,7 @@ dialog.caixa img{width:100%;max-height:82vh;object-fit:contain;background:#000}
 <section class="secao servicos" aria-labelledby="t-serv">
   <div class="envolve">
     <h2 id="t-serv">Do mega hair ao penteado</h2>
-    <p class="intro">Os serviços que o salão lista no perfil:</p>
+    <p class="intro">Os serviços do salão:</p>
     <ul class="lista"><li>Mega hair</li><li>Coloração</li><li>Corte</li><li>Cílios</li><li>Bronze a jato</li><li>Microblading</li><li>Makes</li><li>Penteados</li><li>Progressivas</li></ul>
     <div class="dupla">
       <figure><img src="img/cilios-16-800.webp" srcset="img/cilios-16-480.webp 480w, img/cilios-16-800.webp 800w, img/cilios-16-1200.webp 1200w" sizes="(max-width: 759px) 92vw, 560px" width="800" height="905" alt="Olho com extensão de cílios e sobrancelha desenhada, bem de perto" loading="lazy" decoding="async"><figcaption>Cílios</figcaption></figure>
@@ -231,7 +231,7 @@ dialog.caixa img{width:100%;max-height:82vh;object-fit:contain;background:#000}
 
 <section class="frase" aria-label="Como o salão se apresenta">
   <div class="envolve">
-    <blockquote>“Especializadas em escutar, entender, promover a sua beleza e gerar autoestima.”<cite>Olga e Cia, na bio do Instagram</cite></blockquote>
+    <blockquote>“Especializadas em escutar, entender, promover a sua beleza e gerar autoestima.”<cite>Olga e Cia Cabeleireiros</cite></blockquote>
     <img src="img/olga-01-800.webp" srcset="img/olga-01-480.webp 480w, img/olga-01-800.webp 800w, img/olga-01-1200.webp 1200w" sizes="(max-width: 859px) 92vw, 420px" width="800" height="1067" alt="Duas mulheres de camisa branca encostam a testa uma na outra, sorrindo, dentro do salão" loading="lazy" decoding="async">
   </div>
 </section>
@@ -256,7 +256,7 @@ dialog.caixa img{width:100%;max-height:82vh;object-fit:contain;background:#000}
     <div><b>OLGA E CIA</b><p>Cabeleireiros</p><p>Rua XV de Novembro, 8525<br>Joinville/SC</p></div>
     <div><p>WhatsApp: <a href="https://wa.me/5547999785899?text=Ol%C3%A1%21%20Vi%20o%20site%20e%20quero%20agendar%20um%20hor%C3%A1rio.">(47) 99978-5899</a></p><p>Telefone fixo: <a href="tel:+554734396388">(47) 3439-6388</a></p><p>Instagram: @olgaecia</p></div>
     <div><p><a href="index.html">Início</a><br><a href="servicos.html">Serviços</a><br><a href="salao.html">O salão</a><br><a href="contato.html">Contato</a><br></p></div>
-    <div class="legal"><p>Demonstração não oficial feita pela MHS Tecnologia para a Olga e Cia Cabeleireiros. Sem vínculo com o salão. Fotos e textos do Instagram do salão.</p><p>Removido a pedido: <a href="mailto:contato@mhstecnologia.com.br">contato@mhstecnologia.com.br</a></p></div>
+    <div class="legal"><p>Demonstração não oficial feita pela MHS Tecnologia para a Olga e Cia Cabeleireiros. Sem vínculo com o salão. Fotos e textos do próprio salão.</p><p>Removido a pedido: <a href="mailto:contato@mhstecnologia.com.br">contato@mhstecnologia.com.br</a></p></div>
   </div>
 </footer>
 <div class="fixo" data-fixo><a class="bt" href="https://wa.me/5547999785899?text=Ol%C3%A1%21%20Vi%20o%20site%20e%20quero%20agendar%20um%20hor%C3%A1rio."><svg viewBox="0 0 24 24" aria-hidden="true"><path fill="currentColor" d="M12 2a10 10 0 0 0-8.6 15l-1.3 4.8 4.9-1.3A10 10 0 1 0 12 2Zm5.8 14.1c-.2.7-1.4 1.3-2 1.4-.5.1-1.2.1-1.9-.1a17 17 0 0 1-1.8-.7 13.6 13.6 0 0 1-5.2-4.6c-.4-.5-1.2-1.6-1.2-3s.7-2.2 1-2.5c.3-.3.6-.4.8-.4h.6c.2 0 .4 0 .6.5l.9 2.1c.1.2.1.4 0 .6l-.4.6-.4.5c-.1.2-.3.3-.1.6.2.3.8 1.4 1.8 2.2 1.2 1.1 2.3 1.4 2.6 1.6.3.1.5.1.7-.1l1-1.2c.2-.3.4-.2.7-.1l2 1c.3.1.5.2.6.3.1.2.1.7-.1 1.4Z"/></svg>Agendar pelo WhatsApp</a></div>

diff --git a/olga-e-cia-joinville-sc/salao.html b/olga-e-cia-joinville-sc/salao.html
@@ -182,14 +182,14 @@ dialog.caixa img{width:100%;max-height:82vh;object-fit:contain;background:#000}
     <nav class="nav" aria-label="Principal"><a href="index.html">Início</a><a href="servicos.html">Serviços</a><a href="salao.html" aria-current="page">O salão</a><a href="contato.html">Contato</a>
       <details class="menu"><summary>Menu</summary><div><a href="index.html">Início</a><a href="servicos.html">Serviços</a><a href="salao.html" aria-current="page">O salão</a><a href="contato.html">Contato</a><a href="https://wa.me/5547999785899?text=Ol%C3%A1%21%20Vi%20o%20site%20e%20quero%20agendar%20um%20hor%C3%A1rio.">Agendar pelo WhatsApp</a></div></details>
     </nav>
-    <a class="bt bt-topo" href="https://wa.me/5547999785899?text=Ol%C3%A1%21%20Vi%20o%20site%20e%20quero%20agendar%20um%20hor%C3%A1rio."><svg viewBox="0 0 24 24" aria-hidden="true"><path fill="currentColor" d="M12 2a10 10 0 0 0-8.6 15l-1.3 4.8 4.9-1.3A10 10 0 1 0 12 2Zm5.8 14.1c-.2.7-1.4 1.3-2 1.4-.5.1-1.2.1-1.9-.1a17 17 0 0 1-1.8-.7 13.6 13.6 0 0 1-5.2-4.6c-.4-.5-1.2-1.6-1.2-3s.7-2.2 1-2.5c.3-.3.6-.4.8-.4h.6c.2 0 .4 0 .6.5l.9 2.1c.1.2.1.4 0 .6l-.4.6-.4.5c-.1.2-.3.3-.1.6.2.3.8 1.4 1.8 2.2 1.2 1.1 2.3 1.4 2.6 1.6.3.1.5.1.7-.1l1-1.2c.2-.3.4-.2.7-.1l2 1c.3.1.5.2.6.3.1.2.1.7-.1 1.4Z"/></svg>Agendar</a>
+    <a class="bt bt-topo" href="https://wa.me/5547999785899?text=Ol%C3%A1%21%20Vi%20o%20site%20e%20quero%20agendar%20um%20hor%C3%A1rio." aria-label="Agendar pelo WhatsApp"><svg viewBox="0 0 24 24" aria-hidden="true"><path fill="currentColor" d="M12 2a10 10 0 0 0-8.6 15l-1.3 4.8 4.9-1.3A10 10 0 1 0 12 2Zm5.8 14.1c-.2.7-1.4 1.3-2 1.4-.5.1-1.2.1-1.9-.1a17 17 0 0 1-1.8-.7 13.6 13.6 0 0 1-5.2-4.6c-.4-.5-1.2-1.6-1.2-3s.7-2.2 1-2.5c.3-.3.6-.4.8-.4h.6c.2 0 .4 0 .6.5l.9 2.1c.1.2.1.4 0 .6l-.4.6-.4.5c-.1.2-.3.3-.1.6.2.3.8 1.4 1.8 2.2 1.2 1.1 2.3 1.4 2.6 1.6.3.1.5.1.7-.1l1-1.2c.2-.3.4-.2.7-.1l2 1c.3.1.5.2.6.3.1.2.1.7-.1 1.4Z"/></svg>Agendar</a>
   </div>
 </header>
 <main id="conteudo">
 <section class="cabeca" data-depois>
   <div class="envolve">
     <h1>O salão</h1>
-    <p>Especializadas em escutar, entender, promover a sua beleza e gerar autoestima.</p>
+    <p>Olga e Cia Cabeleireiros, na Rua XV de Novembro, 8525, em Joinville.</p>
   </div>
 </section>
 <section class="secao visita">
@@ -206,8 +206,8 @@ dialog.caixa img{width:100%;max-height:82vh;object-fit:contain;background:#000}
   <div class="envolve">
     <h2>Por dentro</h2>
     <div class="dupla">
-      <figure><img src="img/salao-13-800.webp" srcset="img/salao-13-480.webp 480w, img/salao-13-800.webp 800w, img/salao-13-1200.webp 1200w" sizes="(max-width: 759px) 92vw, 560px" width="800" height="505" alt="Cadeira preta de cabeleireiro em primeiro plano e o salão ao fundo, com piso claro" loading="lazy" decoding="async"></figure>
-      <figure><img src="img/olga-01-800.webp" srcset="img/olga-01-480.webp 480w, img/olga-01-800.webp 800w, img/olga-01-1200.webp 1200w" sizes="(max-width: 759px) 92vw, 560px" width="800" height="1067" alt="Duas mulheres de camisa branca encostam a testa uma na outra, sorrindo, dentro do salão" loading="lazy" decoding="async"></figure>
+      <figure><img src="img/salao-13-800.webp" srcset="img/salao-13-480.webp 480w, img/salao-13-800.webp 800w, img/salao-13-1200.webp 1200w" sizes="(max-width: 759px) 92vw, 560px" width="800" height="505" alt="Cadeira preta de cabeleireiro em primeiro plano e o salão ao fundo, com piso claro" loading="lazy" decoding="async"><figcaption>O salão por dentro: cadeira preta e piso claro.</figcaption></figure>
+      <figure><img src="img/olga-01-800.webp" srcset="img/olga-01-480.webp 480w, img/olga-01-800.webp 800w, img/olga-01-1200.webp 1200w" sizes="(max-width: 759px) 92vw, 560px" width="800" height="1067" alt="Duas mulheres de camisa branca encostam a testa uma na outra, sorrindo, dentro do salão" loading="lazy" decoding="async"><figcaption>Testa com testa, de camisa branca, dentro do salão.</figcaption></figure>
     </div>
   </div>
 </section>
@@ -224,7 +224,7 @@ dialog.caixa img{width:100%;max-height:82vh;object-fit:contain;background:#000}
     <div><b>OLGA E CIA</b><p>Cabeleireiros</p><p>Rua XV de Novembro, 8525<br>Joinville/SC</p></div>
     <div><p>WhatsApp: <a href="https://wa.me/5547999785899?text=Ol%C3%A1%21%20Vi%20o%20site%20e%20quero%20agendar%20um%20hor%C3%A1rio.">(47) 99978-5899</a></p><p>Telefone fixo: <a href="tel:+554734396388">(47) 3439-6388</a></p><p>Instagram: @olgaecia</p></div>
     <div><p><a href="index.html">Início</a><br><a href="servicos.html">Serviços</a><br><a href="salao.html">O salão</a><br><a href="contato.html">Contato</a><br></p></div>
-    <div class="legal"><p>Demonstração não oficial feita pela MHS Tecnologia para a Olga e Cia Cabeleireiros. Sem vínculo com o salão. Fotos e textos do Instagram do salão.</p><p>Removido a pedido: <a href="mailto:contato@mhstecnologia.com.br">contato@mhstecnologia.com.br</a></p></div>
+    <div class="legal"><p>Demonstração não oficial feita pela MHS Tecnologia para a Olga e Cia Cabeleireiros. Sem vínculo com o salão. Fotos e textos do próprio salão.</p><p>Removido a pedido: <a href="mailto:contato@mhstecnologia.com.br">contato@mhstecnologia.com.br</a></p></div>
   </div>
 </footer>
 <div class="fixo" data-fixo><a class="bt" href="https://wa.me/5547999785899?text=Ol%C3%A1%21%20Vi%20o%20site%20e%20quero%20agendar%20um%20hor%C3%A1rio."><svg viewBox="0 0 24 24" aria-hidden="true"><path fill="currentColor" d="M12 2a10 10 0 0 0-8.6 15l-1.3 4.8 4.9-1.3A10 10 0 1 0 12 2Zm5.8 14.1c-.2.7-1.4 1.3-2 1.4-.5.1-1.2.1-1.9-.1a17 17 0 0 1-1.8-.7 13.6 13.6 0 0 1-5.2-4.6c-.4-.5-1.2-1.6-1.2-3s.7-2.2 1-2.5c.3-.3.6-.4.8-.4h.6c.2 0 .4 0 .6.5l.9 2.1c.1.2.1.4 0 .6l-.4.6-.4.5c-.1.2-.3.3-.1.6.2.3.8 1.4 1.8 2.2 1.2 1.1 2.3 1.4 2.6 1.6.3.1.5.1.7-.1l1-1.2c.2-.3.4-.2.7-.1l2 1c.3.1.5.2.6.3.1.2.1.7-.1 1.4Z"/></svg>Agendar pelo WhatsApp</a></div>

diff --git a/olga-e-cia-joinville-sc/contato.html b/olga-e-cia-joinville-sc/contato.html
@@ -182,7 +182,7 @@ dialog.caixa img{width:100%;max-height:82vh;object-fit:contain;background:#000}
     <nav class="nav" aria-label="Principal"><a href="index.html">Início</a><a href="servicos.html">Serviços</a><a href="salao.html">O salão</a><a href="contato.html" aria-current="page">Contato</a>
       <details class="menu"><summary>Menu</summary><div><a href="index.html">Início</a><a href="servicos.html">Serviços</a><a href="salao.html">O salão</a><a href="contato.html" aria-current="page">Contato</a><a href="https://wa.me/5547999785899?text=Ol%C3%A1%21%20Vi%20o%20site%20e%20quero%20agendar%20um%20hor%C3%A1rio.">Agendar pelo WhatsApp</a></div></details>
     </nav>
-    <a class="bt bt-topo" href="https://wa.me/5547999785899?text=Ol%C3%A1%21%20Vi%20o%20site%20e%20quero%20agendar%20um%20hor%C3%A1rio."><svg viewBox="0 0 24 24" aria-hidden="true"><path fill="currentColor" d="M12 2a10 10 0 0 0-8.6 15l-1.3 4.8 4.9-1.3A10 10 0 1 0 12 2Zm5.8 14.1c-.2.7-1.4 1.3-2 1.4-.5.1-1.2.1-1.9-.1a17 17 0 0 1-1.8-.7 13.6 13.6 0 0 1-5.2-4.6c-.4-.5-1.2-1.6-1.2-3s.7-2.2 1-2.5c.3-.3.6-.4.8-.4h.6c.2 0 .4 0 .6.5l.9 2.1c.1.2.1.4 0 .6l-.4.6-.4.5c-.1.2-.3.3-.1.6.2.3.8 1.4 1.8 2.2 1.2 1.1 2.3 1.4 2.6 1.6.3.1.5.1.7-.1l1-1.2c.2-.3.4-.2.7-.1l2 1c.3.1.5.2.6.3.1.2.1.7-.1 1.4Z"/></svg>Agendar</a>
+    <a class="bt bt-topo" href="https://wa.me/5547999785899?text=Ol%C3%A1%21%20Vi%20o%20site%20e%20quero%20agendar%20um%20hor%C3%A1rio." aria-label="Agendar pelo WhatsApp"><svg viewBox="0 0 24 24" aria-hidden="true"><path fill="currentColor" d="M12 2a10 10 0 0 0-8.6 15l-1.3 4.8 4.9-1.3A10 10 0 1 0 12 2Zm5.8 14.1c-.2.7-1.4 1.3-2 1.4-.5.1-1.2.1-1.9-.1a17 17 0 0 1-1.8-.7 13.6 13.6 0 0 1-5.2-4.6c-.4-.5-1.2-1.6-1.2-3s.7-2.2 1-2.5c.3-.3.6-.4.8-.4h.6c.2 0 .4 0 .6.5l.9 2.1c.1.2.1.4 0 .6l-.4.6-.4.5c-.1.2-.3.3-.1.6.2.3.8 1.4 1.8 2.2 1.2 1.1 2.3 1.4 2.6 1.6.3.1.5.1.7-.1l1-1.2c.2-.3.4-.2.7-.1l2 1c.3.1.5.2.6.3.1.2.1.7-.1 1.4Z"/></svg>Agendar</a>
   </div>
 </header>
 <main id="conteudo">
@@ -212,7 +212,7 @@ dialog.caixa img{width:100%;max-height:82vh;object-fit:contain;background:#000}
     <div><b>OLGA E CIA</b><p>Cabeleireiros</p><p>Rua XV de Novembro, 8525<br>Joinville/SC</p></div>
     <div><p>WhatsApp: <a href="https://wa.me/5547999785899?text=Ol%C3%A1%21%20Vi%20o%20site%20e%20quero%20agendar%20um%20hor%C3%A1rio.">(47) 99978-5899</a></p><p>Telefone fixo: <a href="tel:+554734396388">(47) 3439-6388</a></p><p>Instagram: @olgaecia</p></div>
     <div><p><a href="index.html">Início</a><br><a href="servicos.html">Serviços</a><br><a href="salao.html">O salão</a><br><a href="contato.html">Contato</a><br></p></div>
-    <div class="legal"><p>Demonstração não oficial feita pela MHS Tecnologia para a Olga e Cia Cabeleireiros. Sem vínculo com o salão. Fotos e textos do Instagram do salão.</p><p>Removido a pedido: <a href="mailto:contato@mhstecnologia.com.br">contato@mhstecnologia.com.br</a></p></div>
+    <div class="legal"><p>Demonstração não oficial feita pela MHS Tecnologia para a Olga e Cia Cabeleireiros. Sem vínculo com o salão. Fotos e textos do próprio salão.</p><p>Removido a pedido: <a href="mailto:contato@mhstecnologia.com.br">contato@mhstecnologia.com.br</a></p></div>
   </div>
 </footer>
 <div class="fixo" data-fixo><a class="bt" href="https://wa.me/5547999785899?text=Ol%C3%A1%21%20Vi%20o%20site%20e%20quero%20agendar%20um%20hor%C3%A1rio."><svg viewBox="0 0 24 24" aria-hidden="true"><path fill="currentColor" d="M12 2a10 10 0 0 0-8.6 15l-1.3 4.8 4.9-1.3A10 10 0 1 0 12 2Zm5.8 14.1c-.2.7-1.4 1.3-2 1.4-.5.1-1.2.1-1.9-.1a17 17 0 0 1-1.8-.7 13.6 13.6 0 0 1-5.2-4.6c-.4-.5-1.2-1.6-1.2-3s.7-2.2 1-2.5c.3-.3.6-.4.8-.4h.6c.2 0 .4 0 .6.5l.9 2.1c.1.2.1.4 0 .6l-.4.6-.4.5c-.1.2-.3.3-.1.6.2.3.8 1.4 1.8 2.2 1.2 1.1 2.3 1.4 2.6 1.6.3.1.5.1.7-.1l1-1.2c.2-.3.4-.2.7-.1l2 1c.3.1.5.2.6.3.1.2.1.7-.1 1.4Z"/></svg>Agendar pelo WhatsApp</a></div>
